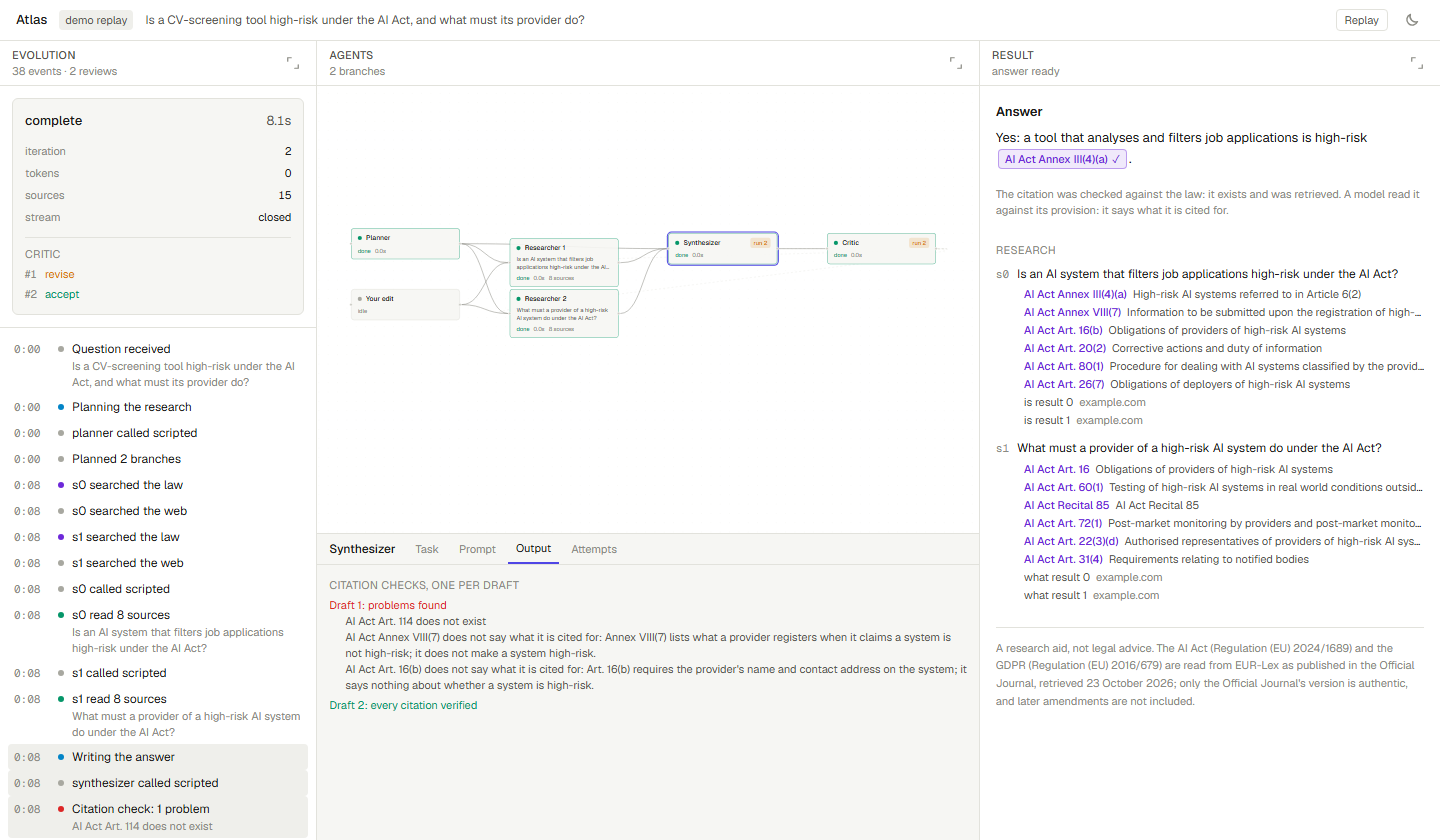
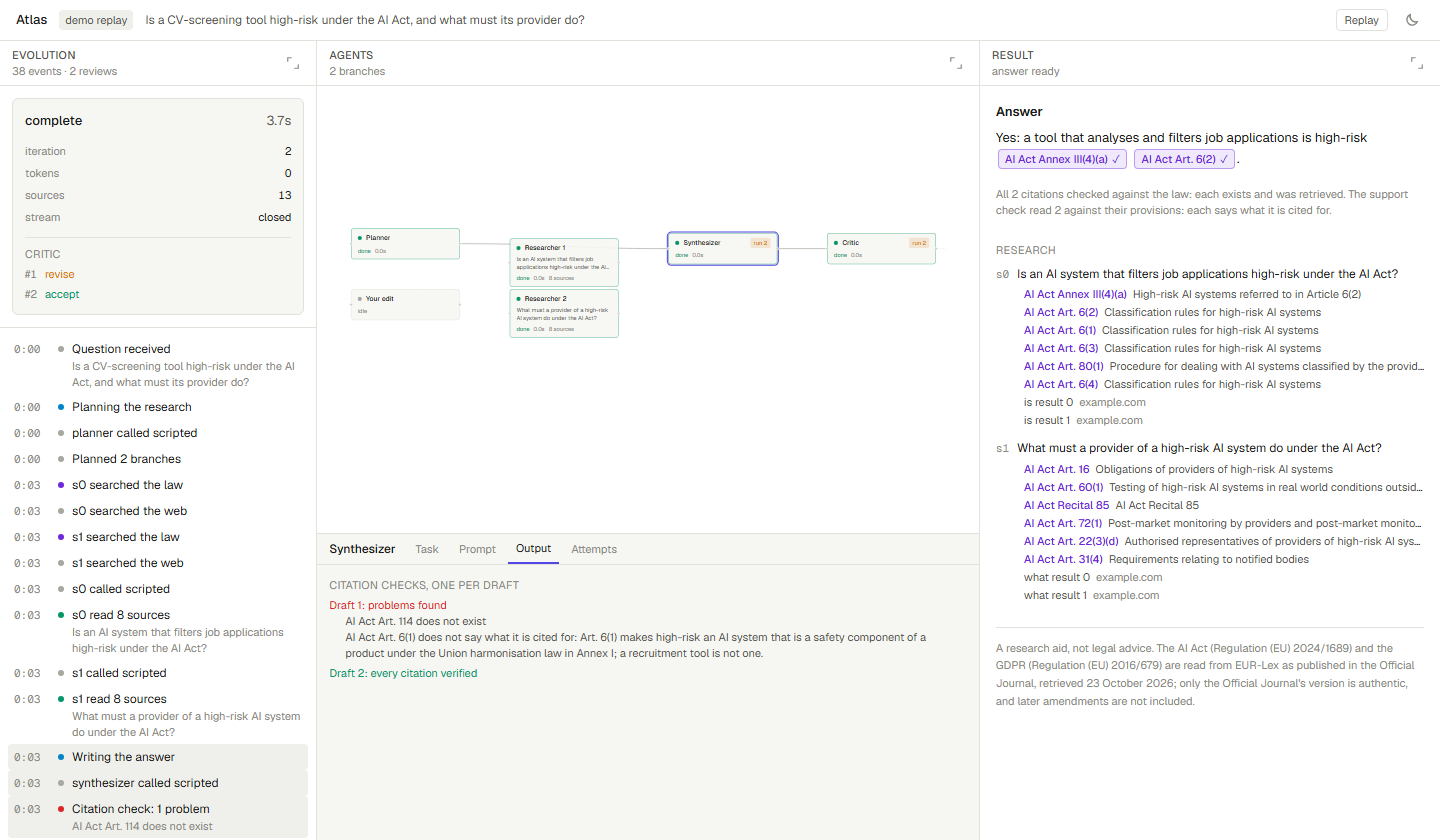
docs: the glossary's measurement, held out; the demo's new story
The report gains the glossary step and the split it was measured on:
dev 0.700 to 0.925, held-out 0.800 to 0.875 measured once, all 40 0.750
to 0.900, recall@5 0.625 to 0.713. The held-out gain is a third of the
dev gain, and the report says that is the overfitting the split exists
to show, and that the overall miss list had been seen beforehand.

The README results, the screenshot and its caption follow the demo's
new story. The roadmap's next retrieval step is now what the remaining
misses need: reasoning, not vocabulary.

Changed region(s): [[0.2188, 0.7429, 0.6562, 0.8667], [0.75, 0.3405, 0.9688, 0.4643], [0.6875, 0.1857, 1.0, 0.2786]]

diff --git a/docs/REPORT.md b/docs/REPORT.md
@@ -98,14 +98,33 @@ retrieval`, recorded in commit `dafb3ca`):
 | Rank a paragraph on its own words, not its points' | 0.662 |
 | Index every point and sub-point as its own passage | 0.688 |
 | Read "EU" as "Union", the acts' own word | 0.700 |
-| Definitions for questions that ask what a term means | **0.750** |
+| Definitions for questions that ask what a term means | 0.750 |
+| A glossary of everyday words for the acts' own (below) | **0.900** |
 
-At that point every must-cite provision is found for 26 of 40 questions; recall@5 is 0.625.
 Down-weighting recitals was tried and left out: no change at two weights and a loss at a third.
 
-The remaining misses are mostly paraphrase, a "chatbot" for an AI system that interacts with
-people. The next fix to try is one model call that rewrites the question into the act's vocabulary,
-measured the same way.
+**The glossary was measured on questions it was not shaped on.** By 0.750, the misses were mostly
+vocabulary: a question says "chatbot", and the AI Act says "AI systems intended to interact directly
+with natural persons". `atlas/library/glossary.py` maps eight such phrases to the acts' words and adds
+them to the query, never in place of it. Before building it, the 40 questions were split by id and
+the split committed:
+- odd ids, to develop on;
+- even ids, held out and measured once at the end.
+
+| | Before | After |
+|---|---|---|
+| Dev half, the 20 it was shaped on | 0.700 | 0.925 |
+| **Held-out half, measured once** | 0.800 | **0.875** |
+| All 40 | 0.750 | 0.900; recall@5 0.625 → 0.713 |
+
+The held-out gain is a third of the dev gain. That gap is the overfitting the split exists to
+expose. One caveat: the list of missed labels across all 40 had been seen before the split,
+though not the held-out questions themselves.
+
+The remaining misses mostly need reasoning rather than vocabulary: that screening applicants is
+"evaluation of personal aspects", or that a transfer needs "appropriate safeguards". The next step to
+try is one model call that rewrites the question into the act's terms, measured on the same held-out
+half.
 
 One caveat: this is one search per question. A full run searches once per planned branch, and its
 retrieval has not been measured separately.
@@ -272,6 +291,7 @@ wrong thing, while everything looks fine. These were found during this work:
 | The demo showed agents | Its recording bypassed the model layer, so it held no prompts to show | Opening the Prompt tab on the demo |
 | A compliance baseline could be scored | The judge charged `plain` for tool use and grounding it cannot have | A test, failing first, at 0.67 |
 | A live answer's citations all passed | One cited the national-security exclusion, Art. 2(3), for extraterritorial reach, Art. 2(1)(c); real, retrieved, and wrong | Reading the provision a chip linked to. That reading is now the support check |
+| The demo's citations were "supported" | The demo's scripted judge said "supported" for any provision it had no script for. After the glossary improved retrieval, it passed Art. 6(1) for a CV tool | Re-recording after the search change and reading the new first draft. An unscripted provision now stops the recording, and offline mode judges nothing |
 | A deleted run's stream was gone | The Redis test double's DEL ignored streams, so the tests could not tell | Making the double behave like Redis |
 | `DELETE /threads/{id}` was queued | A renamed worker function would have left every deletion queued for nobody | A test pinning the job's registered name |
 
@@ -279,9 +299,9 @@ wrong thing, while everything looks fine. These were found during this work:
 
 | | |
 |---|---|
-| Library retrieval, one search per question | recall@10 0.750, recall@5 0.625, all must-cites for 26 of 40 |
+| Library retrieval, one search per question | recall@10 0.900 (held-out half 0.875, measured once), recall@5 0.713, all must-cites for 32 of 40 |
 | Engine regression gate, 50 general questions | completion 0.995, grounding 0.955, tool use 0.963; thresholds 5 / 4 / 3 pp from a measured noise floor |
-| Tests | 547 backend, 13 more against Postgres, 136 frontend; no network, no spend |
+| Tests | 556 backend, 13 more against Postgres, 139 frontend; no network, no spend |
 | **Not measured: the domain eval** | Built and tested; needs about $12–15 of model calls (estimated) |
 | **Not measured: Atlas's own retrieval** | One search per branch, rather than per question |
 | **Not measured: the support check's accuracy** | `atlas_eval support` measures it on 24 labelled cases (12 supported, 12 near misses), each "supports" label proved by the provision's own words; needs credit |

diff --git a/README.md b/README.md
@@ -15,10 +15,10 @@ the research and re-run only that branch.
 </picture>
 
 *The recorded demo, with the synthesizer's drafts open. The first draft cited an article that does
-not exist ("AI Act Art. 114"; the act has 113). It also cited two real, retrieved provisions for
-something they do not say: Art. 16(b) is about the provider's contact details, not about what is
-high-risk. Both checks sent it back. The rewrite keeps the one citation that holds, read against its
-provision.*
+not exist ("AI Act Art. 114"; the act has 113). It also cited a real, retrieved provision for
+something it does not say: Art. 6(1) makes high-risk the AI that is a safety component of a
+regulated product, which a recruitment tool is not. Both checks sent the draft back. The rewrite
+keeps the two citations that hold: Annex III(4)(a), and Art. 6(2), the rule that makes it high-risk.*
 
 > A research aid, not legal advice. The law's text is EUR-Lex's, reused under Commission Decision
 > 2011/833/EU; see [NOTICE](NOTICE).
@@ -88,8 +88,8 @@ npm run dev
 Open <http://127.0.0.1:3000/demo>. It shows a recorded run replayed through the real workspace:
 
 - researchers reading the regulation library;
-- the first draft caught twice: once citing an invented article, and once citing two real provisions
-  for what they do not say;
+- the first draft caught twice: once citing an invented article, and once citing a real provision
+  for what it does not say;
 - the rewrite that fixes both.
 
 Click any agent to read the prompt it was actually sent. The open agent and tab live in the URL, so
@@ -121,9 +121,9 @@ pretend to be a model, so this shows the machinery, not the quality.
 
 | | |
 |---|---|
-| Library retrieval, one search per question | recall@10 **0.750** over the 40 compliance questions; every required provision found for 26 of 40 (`atlas_eval retrieval`) |
+| Library retrieval, one search per question | recall@10 **0.900** over the 40 compliance questions, every required provision found for 32 of 40 (`atlas_eval retrieval`). On the held-out half, measured once after the last change: **0.875**, up from 0.800 |
 | Engine regression gate, 50 general questions | completion 0.995, grounding 0.955, tool use 0.963; run-to-run noise measured, gate thresholds set from it (5 / 4 / 3 pp) |
-| Tests | **547** backend (plus 13 against Postgres) · **136** frontend, no network calls, no spend |
+| Tests | **556** backend (plus 13 against Postgres) · **139** frontend, no network calls, no spend |
 
 **Not measured yet: the headline.** The domain eval compares three systems on 40 questions:
 
@@ -629,9 +629,10 @@ dataset) run in the same session.
 
 **Then, in order of what the measurements say:**
 
-- Paraphrase is most of the retrieval misses ("chatbot" for an AI system interacting with people).
-  The first fix to try is one cheap model call that rewrites the question into the act's vocabulary.
-  Embeddings come only if that falls short.
+- Most remaining retrieval misses need reasoning, not vocabulary: knowing that screening
+  applicants is "evaluation of personal aspects", or that a transfer needs "appropriate safeguards".
+  The next step to try is one cheap model call that rewrites the question into the act's terms,
+  measured on the same held-out half. Embeddings come only if that falls short.
 - Calibrate the judge against the human labels already collected.
 - Add a third act. That is an ingest command, a golden-count test and labels; the engine does not
   change.
